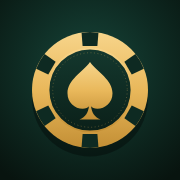
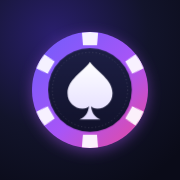
Switch to a brighter midnight and violet theme
Replaces the green and gold look with midnight surfaces, a violet to
pink gradient for primary actions, brighter seat colors, smoother
transitions and a matching app icon.

Claude-Session: https://claude.ai/code/session_01MKSsgXQVVmAHaUvDS8zmv8

diff --git a/index.html b/index.html
@@ -7,20 +7,21 @@
 <link rel="apple-touch-icon" href="icon-180.png">
 <link rel="icon" href="icon-192.png">
 <link rel="manifest" href="manifest.webmanifest">
-<style>html{background:#0b1411}body{margin:0}[hidden]{display:none!important}img{max-width:100%}</style>
+<style>html{background:#0b0d17}body{margin:0}[hidden]{display:none!important}img{max-width:100%}</style>
 <title>Home Game Ledger</title>
 <meta name="apple-mobile-web-app-capable" content="yes">
 <meta name="apple-mobile-web-app-title" content="Home Game">
-<meta name="theme-color" content="#0b1411">
+<meta name="theme-color" content="#0b0d17">
 <link rel="preconnect" href="https://fonts.googleapis.com">
 <link rel="stylesheet" href="https://fonts.googleapis.com/css2?family=Plus+Jakarta+Sans:wght@400;500;600;700;800&display=swap">
 <style>
-/* Layout: phone-first single column. Flat dark-green surfaces, one gold primary action, color = meaning (green in, coral out, amber owed to house, blue house owes). */
+/* Layout: phone-first single column. Midnight surfaces with soft violet glow, one violet-to-pink gradient for primary actions, color = meaning (mint in, rose out, amber owed to house, sky house owes). */
 :root{
-  --bg:#0b1411; --surface:#121d19; --surface-2:#192823; --surface-3:#21332c; --line:#253a32;
-  --ink:#eef4f0; --muted:#8ea59b; --faint:#5f7569;
-  --gold:#e9b85b; --gold-ink:#1f1606; --emerald:#2fbf88;
-  --in:#45d39b; --out:#ff8b7b; --owes-house:#f6b74a; --owes-player:#6cb8ff;
+  --bg:#0b0d17; --surface:#14172a; --surface-2:#1b1f38; --surface-3:#252a4a; --line:#2a2f55;
+  --ink:#f4f5ff; --muted:#9ca2cc; --faint:#666c99;
+  --gold:#8b7bff; --gold-hi:#b9adff; --gold-ink:#ffffff; --emerald:#2ee6a6;
+  --grad:linear-gradient(135deg,#6d5dfc 0%,#a855f7 55%,#ec4899 100%); --glow:0 10px 28px -8px rgba(139,92,246,.6);
+  --in:#2ee6a6; --out:#ff6b8b; --owes-house:#ffb547; --owes-player:#4cc3ff;
   --font:"Plus Jakarta Sans",-apple-system,"Segoe UI",Roboto,sans-serif;
   --r:18px;
   color-scheme:dark;
@@ -39,17 +40,17 @@ h3{font-size:.95rem;font-weight:700}
 .small{font-size:.86rem}
 
 #app{max-width:640px;margin:0 auto;min-height:100%;padding-bottom:calc(88px + env(safe-area-inset-bottom,0px))}
-header.top{position:sticky;top:env(safe-area-inset-top,0px);z-index:5;background:rgba(11,20,17,.88);backdrop-filter:blur(14px);-webkit-backdrop-filter:blur(14px);padding:14px 16px 12px;display:flex;align-items:center;gap:12px;border-bottom:1px solid var(--line)}
+header.top{position:sticky;top:env(safe-area-inset-top,0px);z-index:5;background:rgba(11,13,23,.78);backdrop-filter:blur(14px);-webkit-backdrop-filter:blur(14px);padding:14px 16px 12px;display:flex;align-items:center;gap:12px;border-bottom:1px solid var(--line)}
 header.top .grow{flex:1;min-width:0}
 header.top .sub{font-size:.84rem;color:var(--muted);white-space:nowrap;overflow:hidden;text-overflow:ellipsis}
 main{padding:16px;display:grid;gap:12px}
 
-nav.tabs{position:fixed;left:0;right:0;bottom:0;z-index:6;background:rgba(18,29,25,.94);backdrop-filter:blur(14px);-webkit-backdrop-filter:blur(14px);border-top:1px solid var(--line);padding:8px 8px calc(8px + env(safe-area-inset-bottom,0px));display:flex;justify-content:center}
+nav.tabs{position:fixed;left:0;right:0;bottom:0;z-index:6;background:rgba(20,23,42,.88);backdrop-filter:blur(14px);-webkit-backdrop-filter:blur(14px);border-top:1px solid var(--line);padding:8px 8px calc(8px + env(safe-area-inset-bottom,0px));display:flex;justify-content:center}
 nav.tabs .in{display:flex;width:100%;max-width:640px;gap:4px}
 nav.tabs button{flex:1;background:none;border:0;padding:6px 2px;display:grid;justify-items:center;gap:3px;color:var(--faint);font-size:.68rem;font-weight:600;cursor:pointer;border-radius:12px}
 nav.tabs button svg{width:22px;height:22px}
 nav.tabs button[aria-current="true"]{color:var(--gold)}
-nav.tabs button[aria-current="true"] svg{filter:drop-shadow(0 0 8px rgba(233,184,91,.35))}
+nav.tabs button[aria-current="true"] svg{filter:drop-shadow(0 0 8px rgba(139,123,255,.55))}
 
 .card{background:var(--surface);border:1px solid var(--line);border-radius:var(--r);padding:16px}
 .card.tap{cursor:pointer;display:block;width:100%;text-align:left;color:var(--ink)}
@@ -63,22 +64,22 @@ nav.tabs button[aria-current="true"] svg{filter:drop-shadow(0 0 8px rgba(233,184
 .kv .total{border-top:1px solid var(--line);padding-top:10px;margin-top:2px}
 hr{border:0;border-top:1px solid var(--line);margin:4px 0}
 
-.btn{appearance:none;border:0;background:var(--gold);color:var(--gold-ink);font-weight:700;border-radius:14px;padding:10px 16px;cursor:pointer;min-height:46px}
-.btn:active{filter:brightness(.92)}
-.btn.ghost{background:var(--surface-3);color:var(--ink)}
+.btn{appearance:none;border:0;background:var(--grad);color:var(--gold-ink);box-shadow:var(--glow);transition:transform .15s ease,filter .15s ease,box-shadow .2s ease;font-weight:700;border-radius:14px;padding:10px 16px;cursor:pointer;min-height:46px}
+.btn:active{transform:scale(.98);filter:brightness(.95)}
+.btn.ghost{background:var(--surface-3);color:var(--ink);box-shadow:none}
 .btn.sm{min-height:36px;padding:6px 12px;font-size:.88rem;border-radius:11px}
-.btn.danger{background:rgba(255,139,123,.12);color:var(--out)}
+.btn.danger{box-shadow:none;background:rgba(255,107,139,.12);color:var(--out)}
 .btn.block{width:100%}
 .btn:disabled{opacity:.4}
 .btn:focus-visible,.chip:focus-visible,input:focus-visible,select:focus-visible,textarea:focus-visible,nav.tabs button:focus-visible,.card.tap:focus-visible,.seatrow:focus-visible{outline:2px solid var(--gold);outline-offset:2px}
 .iconbtn{background:var(--surface-2);border:0;color:var(--ink);border-radius:12px;width:40px;height:40px;display:grid;place-items:center;cursor:pointer}
 
 .pill{display:inline-flex;align-items:center;gap:5px;border-radius:999px;padding:3px 9px;font-size:.72rem;font-weight:700;background:var(--surface-3);color:var(--muted)}
-.pill.open{background:rgba(69,211,155,.14);color:var(--in)}
+.pill.open{background:rgba(46,230,166,.14);color:var(--in)}
 .pill.open::before{content:"";width:6px;height:6px;border-radius:50%;background:currentColor}
 .pill.closed{background:var(--surface-3);color:var(--muted)}
-.pill.reg{background:rgba(233,184,91,.14);color:var(--gold)}
-.pill.wait{background:rgba(246,183,74,.14);color:var(--owes-house)}
+.pill.reg{background:rgba(139,123,255,.18);color:var(--gold-hi)}
+.pill.wait{background:rgba(255,181,71,.14);color:var(--owes-house)}
 .owes-house{color:var(--owes-house)} .owes-player{color:var(--owes-player)} .win,.in{color:var(--in)} .loss,.out{color:var(--out)}
 .dot{display:inline-block;width:8px;height:8px;border-radius:50%;background:currentColor;margin-right:6px;vertical-align:1px}
 
@@ -94,7 +95,7 @@ textarea{min-height:80px;resize:vertical}
 .grid2>*{min-width:0}
 .chips{display:flex;flex-wrap:wrap;gap:6px}
 .chip{border:1px solid var(--line);background:var(--surface-2);border-radius:999px;padding:7px 13px;cursor:pointer;color:var(--ink);font-size:.9rem;font-weight:500}
-.chip[aria-pressed="true"]{background:var(--gold);color:var(--gold-ink);border-color:var(--gold);font-weight:700}
+.chip[aria-pressed="true"]{background:var(--grad);color:#fff;border-color:transparent;font-weight:700;box-shadow:var(--glow)}
 .chip:disabled{opacity:.3;cursor:not-allowed}
 
 /* Stat tiles */
@@ -147,8 +148,8 @@ tr.tot td{border-bottom:0;font-weight:800}
 .flow .line{display:flex;justify-content:space-between;gap:6px;font-size:.84rem}
 .flow .head{display:flex;justify-content:space-between;font-weight:800}
 .badge{display:inline-flex;align-items:center;gap:6px;border-radius:12px;padding:10px 12px;font-weight:700;font-size:.92rem}
-.badge.ok{background:rgba(69,211,155,.12);color:var(--in)}
-.badge.warn{background:rgba(246,183,74,.12);color:var(--owes-house)}
+.badge.ok{background:rgba(46,230,166,.12);color:var(--in)}
+.badge.warn{background:rgba(255,181,71,.12);color:var(--owes-house)}
 
 .empty{text-align:center;padding:28px 16px;color:var(--muted);display:grid;gap:12px;justify-items:center}
 .suits{font-size:1.3rem;letter-spacing:.35em;color:var(--gold)}
@@ -165,10 +166,10 @@ tr.tot td{border-bottom:0;font-weight:800}
 .lock .box{width:100%;max-width:340px;display:grid;gap:20px;justify-items:center;text-align:center}
 .dots{display:flex;gap:14px;min-height:14px}
 .dots i{width:13px;height:13px;border-radius:50%;background:var(--surface-3)}
-.dots i.on{background:var(--gold)}
+.dots i.on{background:var(--grad);box-shadow:0 0 12px rgba(168,85,247,.7)}
 .pad{display:grid;grid-template-columns:repeat(3,74px);gap:14px}
 .pad button{width:74px;height:74px;border-radius:50%;border:0;background:var(--surface-2);font-size:1.5rem;font-weight:600;color:var(--ink);cursor:pointer}
-.pad button:active{background:var(--gold);color:var(--gold-ink)}
+.pad button:active{background:var(--grad);color:#fff}
 .chipmark{width:68px;height:68px;border-radius:20px;background:var(--gold);display:grid;place-items:center;color:var(--gold-ink);font-size:2rem;font-weight:800}
 .chipmark span{line-height:1}
 
@@ -191,6 +192,17 @@ tr.tot td{border-bottom:0;font-weight:800}
 .session[open] summary{padding-bottom:10px;border-bottom:1px solid var(--line)}
 input[type=date],input[type=time]{-webkit-appearance:none;appearance:none;min-width:0;max-width:100%;display:block;text-align:left}
 .grid2 input,.grid2 select{min-width:0;max-width:100%}
+body{background:radial-gradient(90% 50% at 0% 0%,rgba(109,93,252,.22),transparent 60%),radial-gradient(70% 40% at 100% 100%,rgba(236,72,153,.14),transparent 60%),var(--bg);background-attachment:fixed}
+.card{transition:background .2s ease,border-color .2s ease}
+.segs button{transition:background .2s ease,color .2s ease}
+.segs button[aria-pressed="true"]{background:linear-gradient(135deg,rgba(109,93,252,.35),rgba(236,72,153,.25));color:#fff;box-shadow:inset 0 0 0 1px rgba(185,173,255,.25)}
+nav.tabs button{transition:color .2s ease}
+nav.tabs button[aria-current="true"]{color:var(--gold-hi)}
+.stat>div{border:1px solid rgba(255,255,255,.04)}
+.settle .hero{background:linear-gradient(135deg,rgba(109,93,252,.22),rgba(236,72,153,.12)),var(--surface-2)}
+.toast{background:var(--grad);color:#fff;box-shadow:var(--glow)}
+input:focus,select:focus,textarea:focus{border-color:var(--gold);outline:none;box-shadow:0 0 0 3px rgba(139,123,255,.25)}
+.iconbtn{transition:background .2s ease}
 </style>
 
 </head>
@@ -201,7 +213,7 @@ input[type=date],input[type=time]{-webkit-appearance:none;appearance:none;min-wi
 (() => {
 'use strict';
 const KEY = 'homeGameLedger.v1';
-const APP_VERSION = '6 · Sessions';
+const APP_VERSION = '7 · New look';
 const MAX_PLAYERS = 40;
 const GAME_TYPES = ['2/5 NLH','5/10 NLH','2/5 Omaha'];
 const METHODS = ['Cash','Venmo','Zelle','Cash App','Apple Pay','PayPal','Card','Other'];
@@ -209,7 +221,7 @@ const SETTLE = 'Settle at end';
 const NETTED = 'Netted from chips';
 const CATEGORIES = ['Rent / Venue','Food & Drinks','Cards & Chips','Equipment','Supplies','Staff','Other'];
 // Soft, distinct tints that read well on dark felt, one per seat
-const COLORS = ['#5eead4','#a78bfa','#60a5fa','#f472b6','#fbbf24','#4ade80','#fb923c','#c084fc','#38bdf8','#f87171'];
+const COLORS = ['#22d3ee','#a78bfa','#f472b6','#34d399','#60a5fa','#fb923c','#e879f9','#facc15','#2dd4bf','#fb7185'];
 
 /* ---------- data ---------- */
 const blank = () => ({ version:2, passHash:null, players:[], nights:[], expenses:[], lastBackup:null });
@@ -331,7 +343,7 @@ function renderLock(){
   const sub = setting ? 'Six digits. Share it only with your partner.' : 'Host access only';
   $app.innerHTML = `
   <div class="lock"><div class="box">
-    <svg xmlns="http://www.w3.org/2000/svg" viewBox="0 0 1024 1024" width="84" height="84" style="border-radius:20px;display:block" aria-hidden="true">   <defs>     <radialGradient id="bg" cx="50%" cy="38%" r="75%">       <stop offset="0" stop-color="#17463a"/>       <stop offset=".55" stop-color="#0e2a22"/>       <stop offset="1" stop-color="#08140f"/>     </radialGradient>     <linearGradient id="gold" x1="0" y1="0" x2="0" y2="1">       <stop offset="0" stop-color="#f7d58b"/>       <stop offset=".5" stop-color="#e9b85b"/>       <stop offset="1" stop-color="#c38f35"/>     </linearGradient>     <linearGradient id="face" x1="0" y1="0" x2="0" y2="1">       <stop offset="0" stop-color="#14382e"/>       <stop offset="1" stop-color="#0b2019"/>     </linearGradient>   </defs>   <rect width="84" height="84" style="border-radius:20px;display:block" aria-hidden="true" fill="url(#bg)"/>   <!-- chip shadow -->   <ellipse cx="512" cy="560" rx="330" ry="330" fill="#000" opacity=".35"/>   <!-- chip body -->   <circle cx="512" cy="512" r="330" fill="url(#gold)"/>   <!-- edge inserts -->   <g fill="#0e2a22">     <g id="ins"><path d="M512 182 L560 186 L554 262 L470 262 L464 186 Z"/></g>     <use href="#ins" transform="rotate(60 512 512)"/>     <use href="#ins" transform="rotate(120 512 512)"/>     <use href="#ins" transform="rotate(180 512 512)"/>     <use href="#ins" transform="rotate(240 512 512)"/>     <use href="#ins" transform="rotate(300 512 512)"/>   </g>   <!-- inner face -->   <circle cx="512" cy="512" r="236" fill="url(#face)"/>   <circle cx="512" cy="512" r="236" fill="none" stroke="url(#gold)" stroke-width="10"/>   <circle cx="512" cy="512" r="212" fill="none" stroke="#e9b85b" stroke-width="3" stroke-dasharray="6 14" opacity=".55"/>   <!-- spade -->   <path fill="url(#gold)" d="M512 352     C 470 410 384 452 384 530     C 384 584 426 618 470 618     C 488 618 500 612 506 604     C 502 640 488 664 452 680     L 572 680     C 536 664 522 640 518 604     C 524 612 536 618 554 618     C 598 618 640 584 640 530     C 640 452 554 410 512 352 Z"/> </svg> 
+    <svg xmlns="http://www.w3.org/2000/svg" viewBox="0 0 1024 1024" width="84" height="84" style="border-radius:20px;display:block" aria-hidden="true">   <defs>     <radialGradient id="bg" cx="30%" cy="20%" r="95%">       <stop offset="0" stop-color="#2a1f6e"/>       <stop offset=".55" stop-color="#12142b"/>       <stop offset="1" stop-color="#0a0b18"/>     </radialGradient>     <linearGradient id="ring" x1="0" y1="0" x2="1" y2="1">       <stop offset="0" stop-color="#6d5dfc"/>       <stop offset=".55" stop-color="#a855f7"/>       <stop offset="1" stop-color="#ec4899"/>     </linearGradient>     <linearGradient id="face" x1="0" y1="0" x2="0" y2="1">       <stop offset="0" stop-color="#1d1f45"/>       <stop offset="1" stop-color="#11122a"/>     </linearGradient>     <linearGradient id="spade" x1="0" y1="0" x2="0" y2="1">       <stop offset="0" stop-color="#ffffff"/>       <stop offset="1" stop-color="#e3dcff"/>     </linearGradient>     <filter id="glow" x="-30%" y="-30%" width="160%" height="160%"><feGaussianBlur stdDeviation="40"/></filter>   </defs>   <rect width="84" height="84" style="border-radius:20px;display:block" aria-hidden="true" fill="url(#bg)"/>   <circle cx="512" cy="530" r="330" fill="#a855f7" opacity=".45" filter="url(#glow)"/>   <circle cx="512" cy="512" r="330" fill="url(#ring)"/>   <g fill="#ffffff" opacity=".92">     <g id="ins"><path d="M512 182 L558 186 L552 258 L472 258 L466 186 Z"/></g>     <use href="#ins" transform="rotate(60 512 512)"/>     <use href="#ins" transform="rotate(120 512 512)"/>     <use href="#ins" transform="rotate(180 512 512)"/>     <use href="#ins" transform="rotate(240 512 512)"/>     <use href="#ins" transform="rotate(300 512 512)"/>   </g>   <circle cx="512" cy="512" r="238" fill="url(#face)"/>   <circle cx="512" cy="512" r="214" fill="none" stroke="#ffffff" stroke-width="3" stroke-dasharray="6 14" opacity=".28"/>   <path fill="url(#spade)" d="M512 352     C 470 410 384 452 384 530     C 384 584 426 618 470 618     C 488 618 500 612 506 604     C 502 640 488 664 452 680     L 572 680     C 536 664 522 640 518 604     C 524 612 536 618 554 618     C 598 618 640 584 640 530     C 640 452 554 410 512 352 Z"/> </svg>  
     <h1>Home Game Ledger</h1>
     <div><h2>${title}</h2><div class="muted small">${sub}</div></div>
     <div class="dots" aria-label="${UI.entry.length} of 6 digits entered">${[0,1,2,3,4,5].map(i => `<i class="${i < UI.entry.length ? 'on' : ''}"></i>`).join('')}</div>

diff --git a/sw.js b/sw.js
@@ -1,5 +1,5 @@
 // Network first so updates show on the next open; falls back to the cached copy when offline.
-const CACHE = 'hgl-v3';
+const CACHE = 'hgl-v4';
 const FILES = ['./', './index.html', './manifest.webmanifest', './icon-180.png', './icon-192.png', './icon-512.png'];
 self.addEventListener('install', e => { e.waitUntil(caches.open(CACHE).then(c => c.addAll(FILES))); self.skipWaiting(); });
 self.addEventListener('activate', e => { e.waitUntil(caches.keys().then(ks => Promise.all(ks.filter(k => k !== CACHE).map(k => caches.delete(k))))); self.clients.claim(); });
